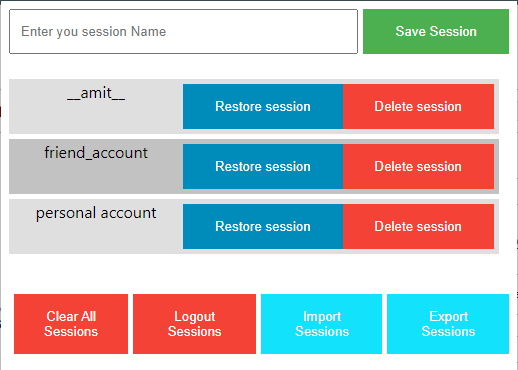
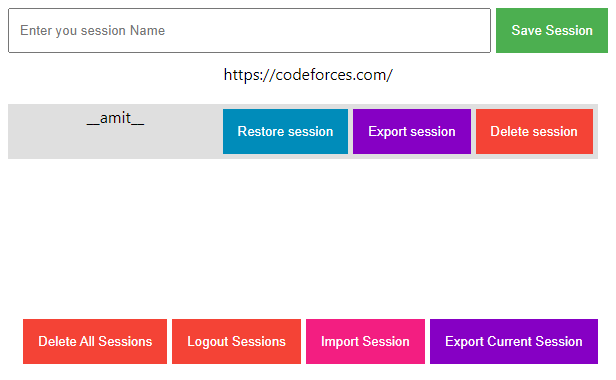
Updated UI

diff --git a/popup.js b/popup.js
@@ -3,6 +3,8 @@ let session_name_inp = document.getElementById("session-name");
 let sessions_list = document.getElementById("list");
 let clear_sessions_btn = document.getElementById("delete-all-sessions");
 let logout_btn = document.getElementById("logout-sessions");
+let import_btn = document.getElementById("import-sessions");
+let export_btn = document.getElementById("export-sessions");
 
 let tab, sessions = [], storeId = '0', baseUrl;
 
@@ -12,6 +14,9 @@ async function init() {
     // current active tab
     [tab] = await chrome.tabs.query({ active: true, currentWindow: true });
     baseUrl = get_url(tab.url);
+
+    let url_heading = document.getElementById("url");
+    url_heading.appendChild(document.createTextNode(`${baseUrl}`));
 
     // cookie-stores
     let stores = await chrome.cookies.getAllCookieStores();
@@ -43,6 +48,13 @@ async function init() {
     logout_btn.addEventListener("click", async () => {
         await logout_sessions();
         reload();
+    });
+
+    import_btn.addEventListener("click", async () => {
+        console.log("import session");
+    });
+    export_btn.addEventListener("click", async () => {
+        console.log("export session");
     });
     
     render_sessions();
@@ -84,6 +96,10 @@ function render_sessions() {
             res_btn.setAttribute("id", idx);
             res_btn.setAttribute("class", "restore-session button button2");
             var res_btn_text = document.createTextNode("Restore session");
+            var ext_btn = document.createElement("button");
+            ext_btn.setAttribute("id", idx);
+            ext_btn.setAttribute("class", "export-session button button5");
+            var ext_btn_text = document.createTextNode("Export session");
             var del_btn = document.createElement("button");
             del_btn.setAttribute("id", idx);
             del_btn.setAttribute("class", "delete-session button button3");
@@ -94,15 +110,20 @@ function render_sessions() {
                 await restore_sessions(idx);
                 reload();
             });
+            ext_btn.addEventListener("click", async () => {
+                console.log(`export session no. ${idx}`);
+            });
             del_btn.addEventListener("click", async () => {
                 console.log(idx);
                 delete_session(idx);
             })
             
             res_btn.appendChild(res_btn_text);
+            ext_btn.appendChild(ext_btn_text);
             del_btn.appendChild(del_btn_text);
             div.appendChild(heading);
             div.appendChild(res_btn);
+            div.appendChild(ext_btn);
             div.appendChild(del_btn);
 
             sessions_list.appendChild(div);

diff --git a/styles.css b/styles.css
@@ -1,5 +1,5 @@
 body {
-    width: 500px;
+    width: 600px;
     font-size: 16px;
 }
 
@@ -28,26 +28,26 @@ body {
     background-color: #4CAF50; /* Green */
     border: none;
     color: white;
-    padding: 15px 32px;
+    padding: 15px 15px;
     text-align: center;
     text-decoration: none;
-    display: inline-block;
     cursor: pointer;
 }
 
 .button1 {background-color: #4CAF50;} /* Green */
 .button2 {background-color: #008CBA;} /* Blue */
 .button3 {background-color: #f44336;} /* Red */
-.button4 {background-color: #e48169;} /* Redish-orange */
-.button5 {background-color: #f0a83d;} /* yellowish-orange */
-.button6 {background-color: #13e2fd;} /* yellowish-orange */
+.button4 {background-color: #f31e81;} /* yellowish-orange */
+.button5 {background-color: #8600c4;} /* yellowish-orange */
 
 #save {
     display: flex;
 }
 
-#session-name {
-    padding-left: 10px;
+#url {
+    display: flex;
+    justify-content: center;
+    margin-top: 10px;
 }
 
 .session {
@@ -64,12 +64,8 @@ body {
     flex-grow: 100;
 }
 
-.delete-session {
-    margin-left: auto;
-}
-
 #list {
-    margin-top: 20px;
+    margin-top: 15px;
     margin-bottom: 20px;
     height: 200px;
     overflow-x: hidden;
@@ -80,8 +76,4 @@ body {
     margin-top: 10px;
     display: flex;
     justify-content: center;
-}
-
-#delete-all-sessions {
-    padding: 15px 25px;
 }

diff --git a/popup.html b/popup.html
@@ -5,17 +5,18 @@
   </head>
   <body>
     <div id="save">
-      <input id="session-name" type="text" placeholder="Enter you session Name" style="flex-grow: 100;">
+      <input id="session-name" type="text" placeholder="Enter you session Name" style="flex-grow: 100; padding-left: 10px;">
       <button class="button button1" id="save-session">Save Session</button>
     </div>
+    <div id="url"></div>
     <div id="list">
        <!-- Build by JS -->
     </div>
     <div id="external-btns">
-      <button class="button button3" id="delete-all-sessions">Clear All Sessions</button>
+      <button class="button button3" id="delete-all-sessions">Delete All Sessions</button>
       <button class="button button3" id="logout-sessions">Logout Sessions</button>
-      <button class="button button6" id="import-sessions">Import Sessions</button>
-      <button class="button button6" id="export-sessions">Export Sessions</button>
+      <button class="button button4" id="import-sessions">Import Session</button>
+      <button class="button button5" id="export-sessions">Export Current Session</button>
     </div>
     <p id="logger"></p>
     <script src="utils.js"></script>
